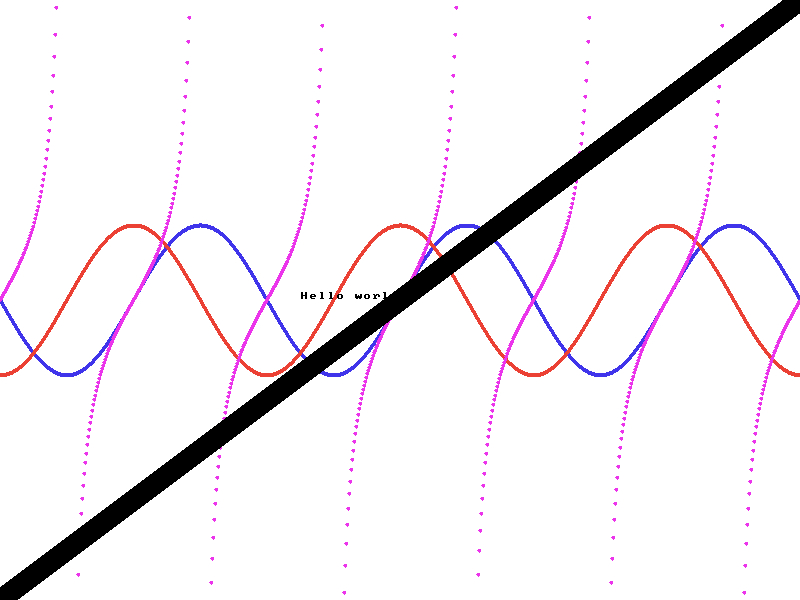
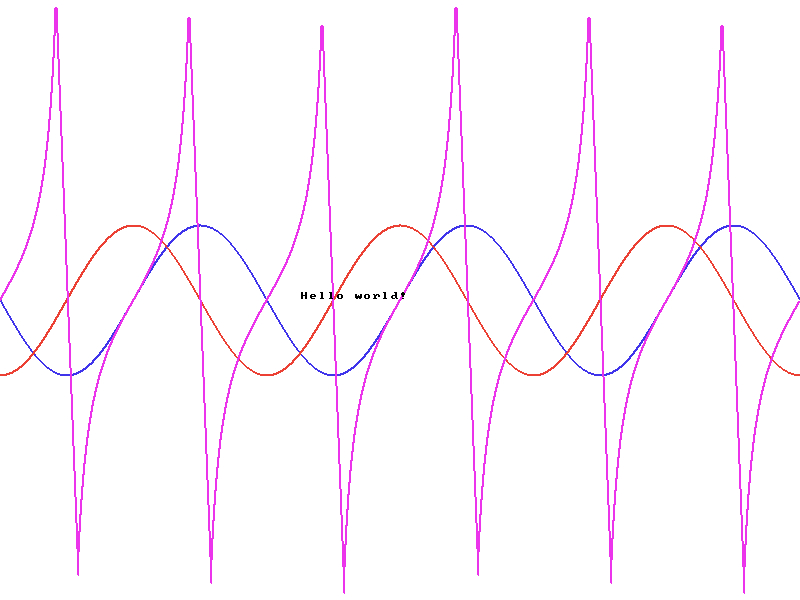
euclib_plot_2d_line_smooth function

diff --git a/euclib.h b/euclib.h
@@ -104,6 +104,11 @@ EUCLIB_INLINE void euclib_plot_2d_line(
     graph_value_callback_t callback, 
     euclib_plot_line_params_t params);
 
+EUCLIB_INLINE void euclib_plot_2d_line_smooth(
+    euclib_plot_t *plot, 
+    graph_value_callback_t callback, 
+    euclib_plot_line_params_t params);
+
 #ifdef EUCLIB_IMPLEMENTATION
 
 EUCLIB_INLINE euclib_bool_t euclib_in_bounds(euclib_plot_t *plot, vec2i_t point) {
@@ -328,6 +333,37 @@ EUCLIB_INLINE void euclib_plot_2d_line(
             continue;
 
         euclib_draw_circle(plot, point, params.line_width, params.line_color);
+    }
+}
+
+EUCLIB_INLINE void euclib_plot_2d_line_smooth(
+    euclib_plot_t *plot, 
+    graph_value_callback_t callback, 
+    euclib_plot_line_params_t params
+) {
+    const int width = plot->width;
+    const int height = plot->height;
+
+    vec2i_t last_point = { -100, -100 }; 
+
+    for(int i = 0; i < width; ++i) {
+        float d = (float) i / (float) width;
+
+        // point coordinates
+        float x = (d * (params.x_range.y - params.x_range.x)) + params.x_range.x;
+        float y = callback(x);
+  
+        float tmp = (y - params.y_range.x) / (params.y_range.y - params.y_range.x);
+        float j = tmp * plot->height;
+
+        vec2i_t point = { i, j };
+
+        if(!euclib_in_bounds(plot, point)) {
+            continue;
+        }
+
+        euclib_draw_line_width(plot, last_point, point, params.line_width, params.line_color);
+        last_point = point;
     }
 }
 

diff --git a/examples/example_0.c b/examples/example_0.c
@@ -18,22 +18,20 @@ int main() {
         .x_range = { -3 * EUCLIB_PI, 3 * EUCLIB_PI },
         .y_range = { -4.0 , 4.0 },
         .line_color = EUCLIB_BLUE,
-        .line_width = 2
+        .line_width = 1
     };
 
     euclib_fill_plot(&plot, EUCLIB_WHITE);
 
-    euclib_plot_2d_line(&plot, &sinf, params);
+    euclib_plot_2d_line_smooth(&plot, &sinf, params);
     
     params.line_color = EUCLIB_RED;
-    euclib_plot_2d_line(&plot, &cosf, params);
+    euclib_plot_2d_line_smooth(&plot, &cosf, params);
 
     params.line_color = EUCLIB_PURPLE;
-    euclib_plot_2d_line(&plot, &tanf, params);
+    euclib_plot_2d_line_smooth(&plot, &tanf, params);
 
     euclib_draw_text(&plot, (vec2i_t){ 300, 300 }, "Hello world!", EUCLIB_BLACK);
-
-    euclib_draw_line_width(&plot, (vec2i_t){ 0, 0 }, (vec2i_t){ 800, 600 }, 10, EUCLIB_BLACK);
 
     stbi_write_jpg("plot.png", 800, 600, 4, plot.value, 800);
 
